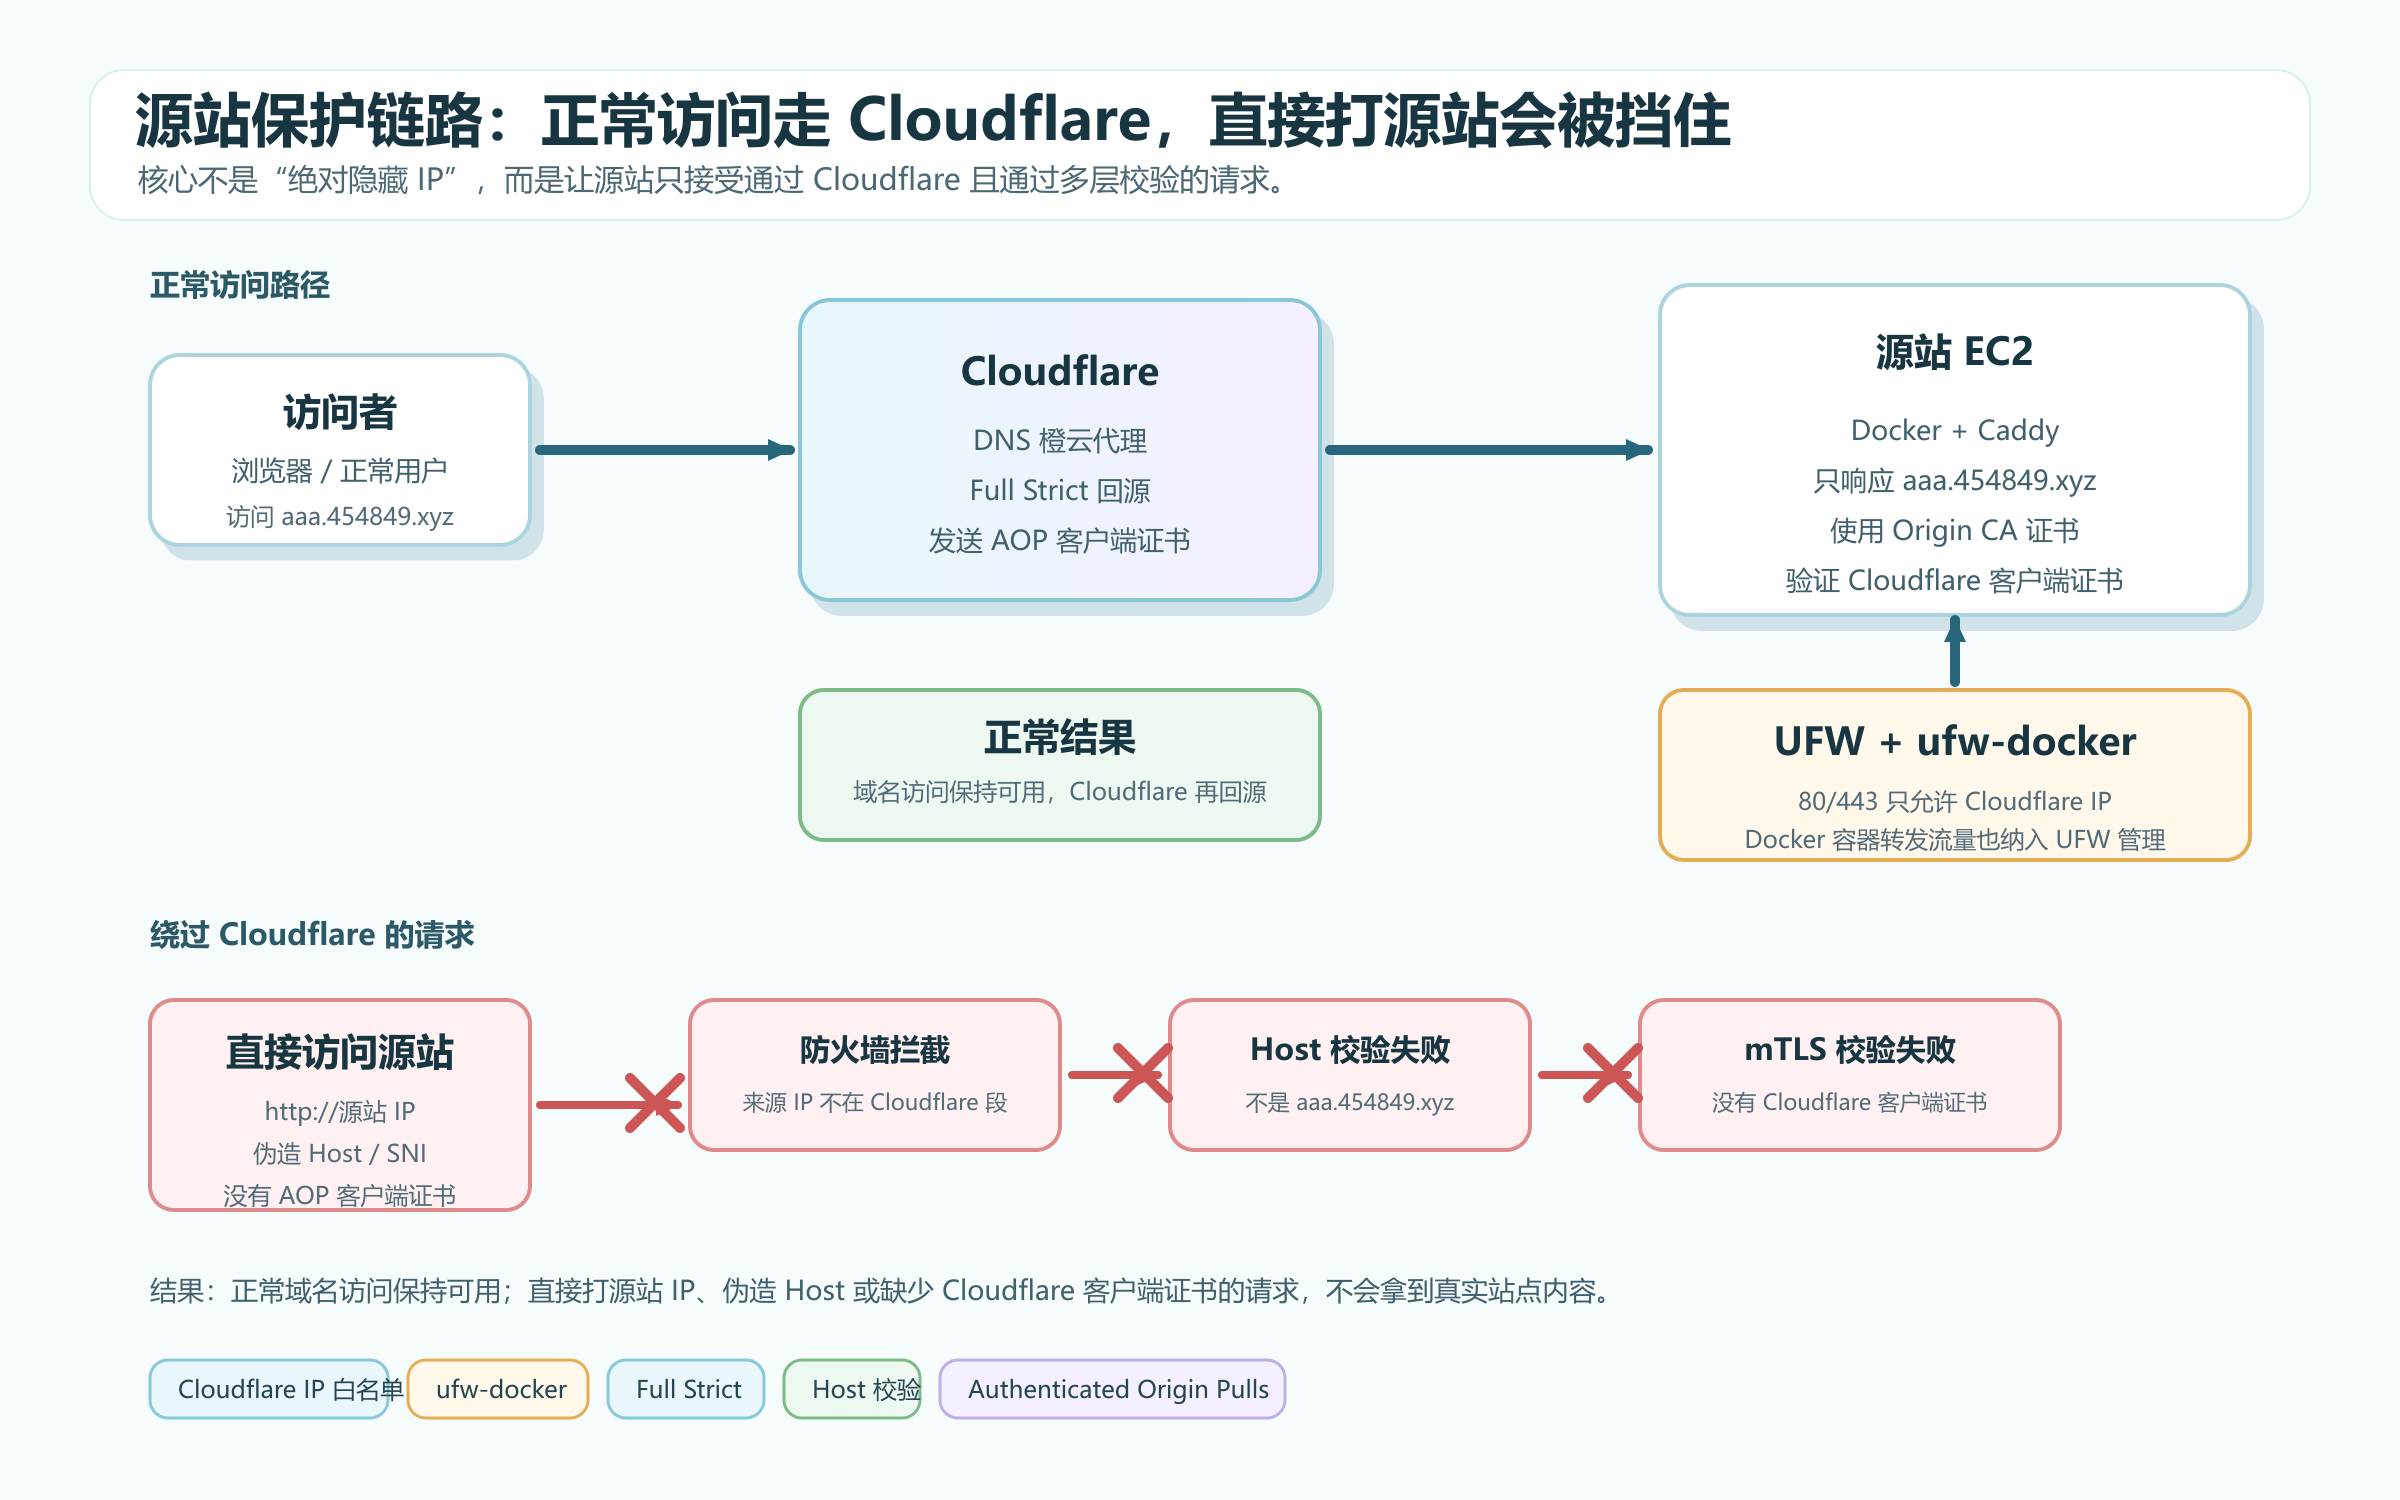
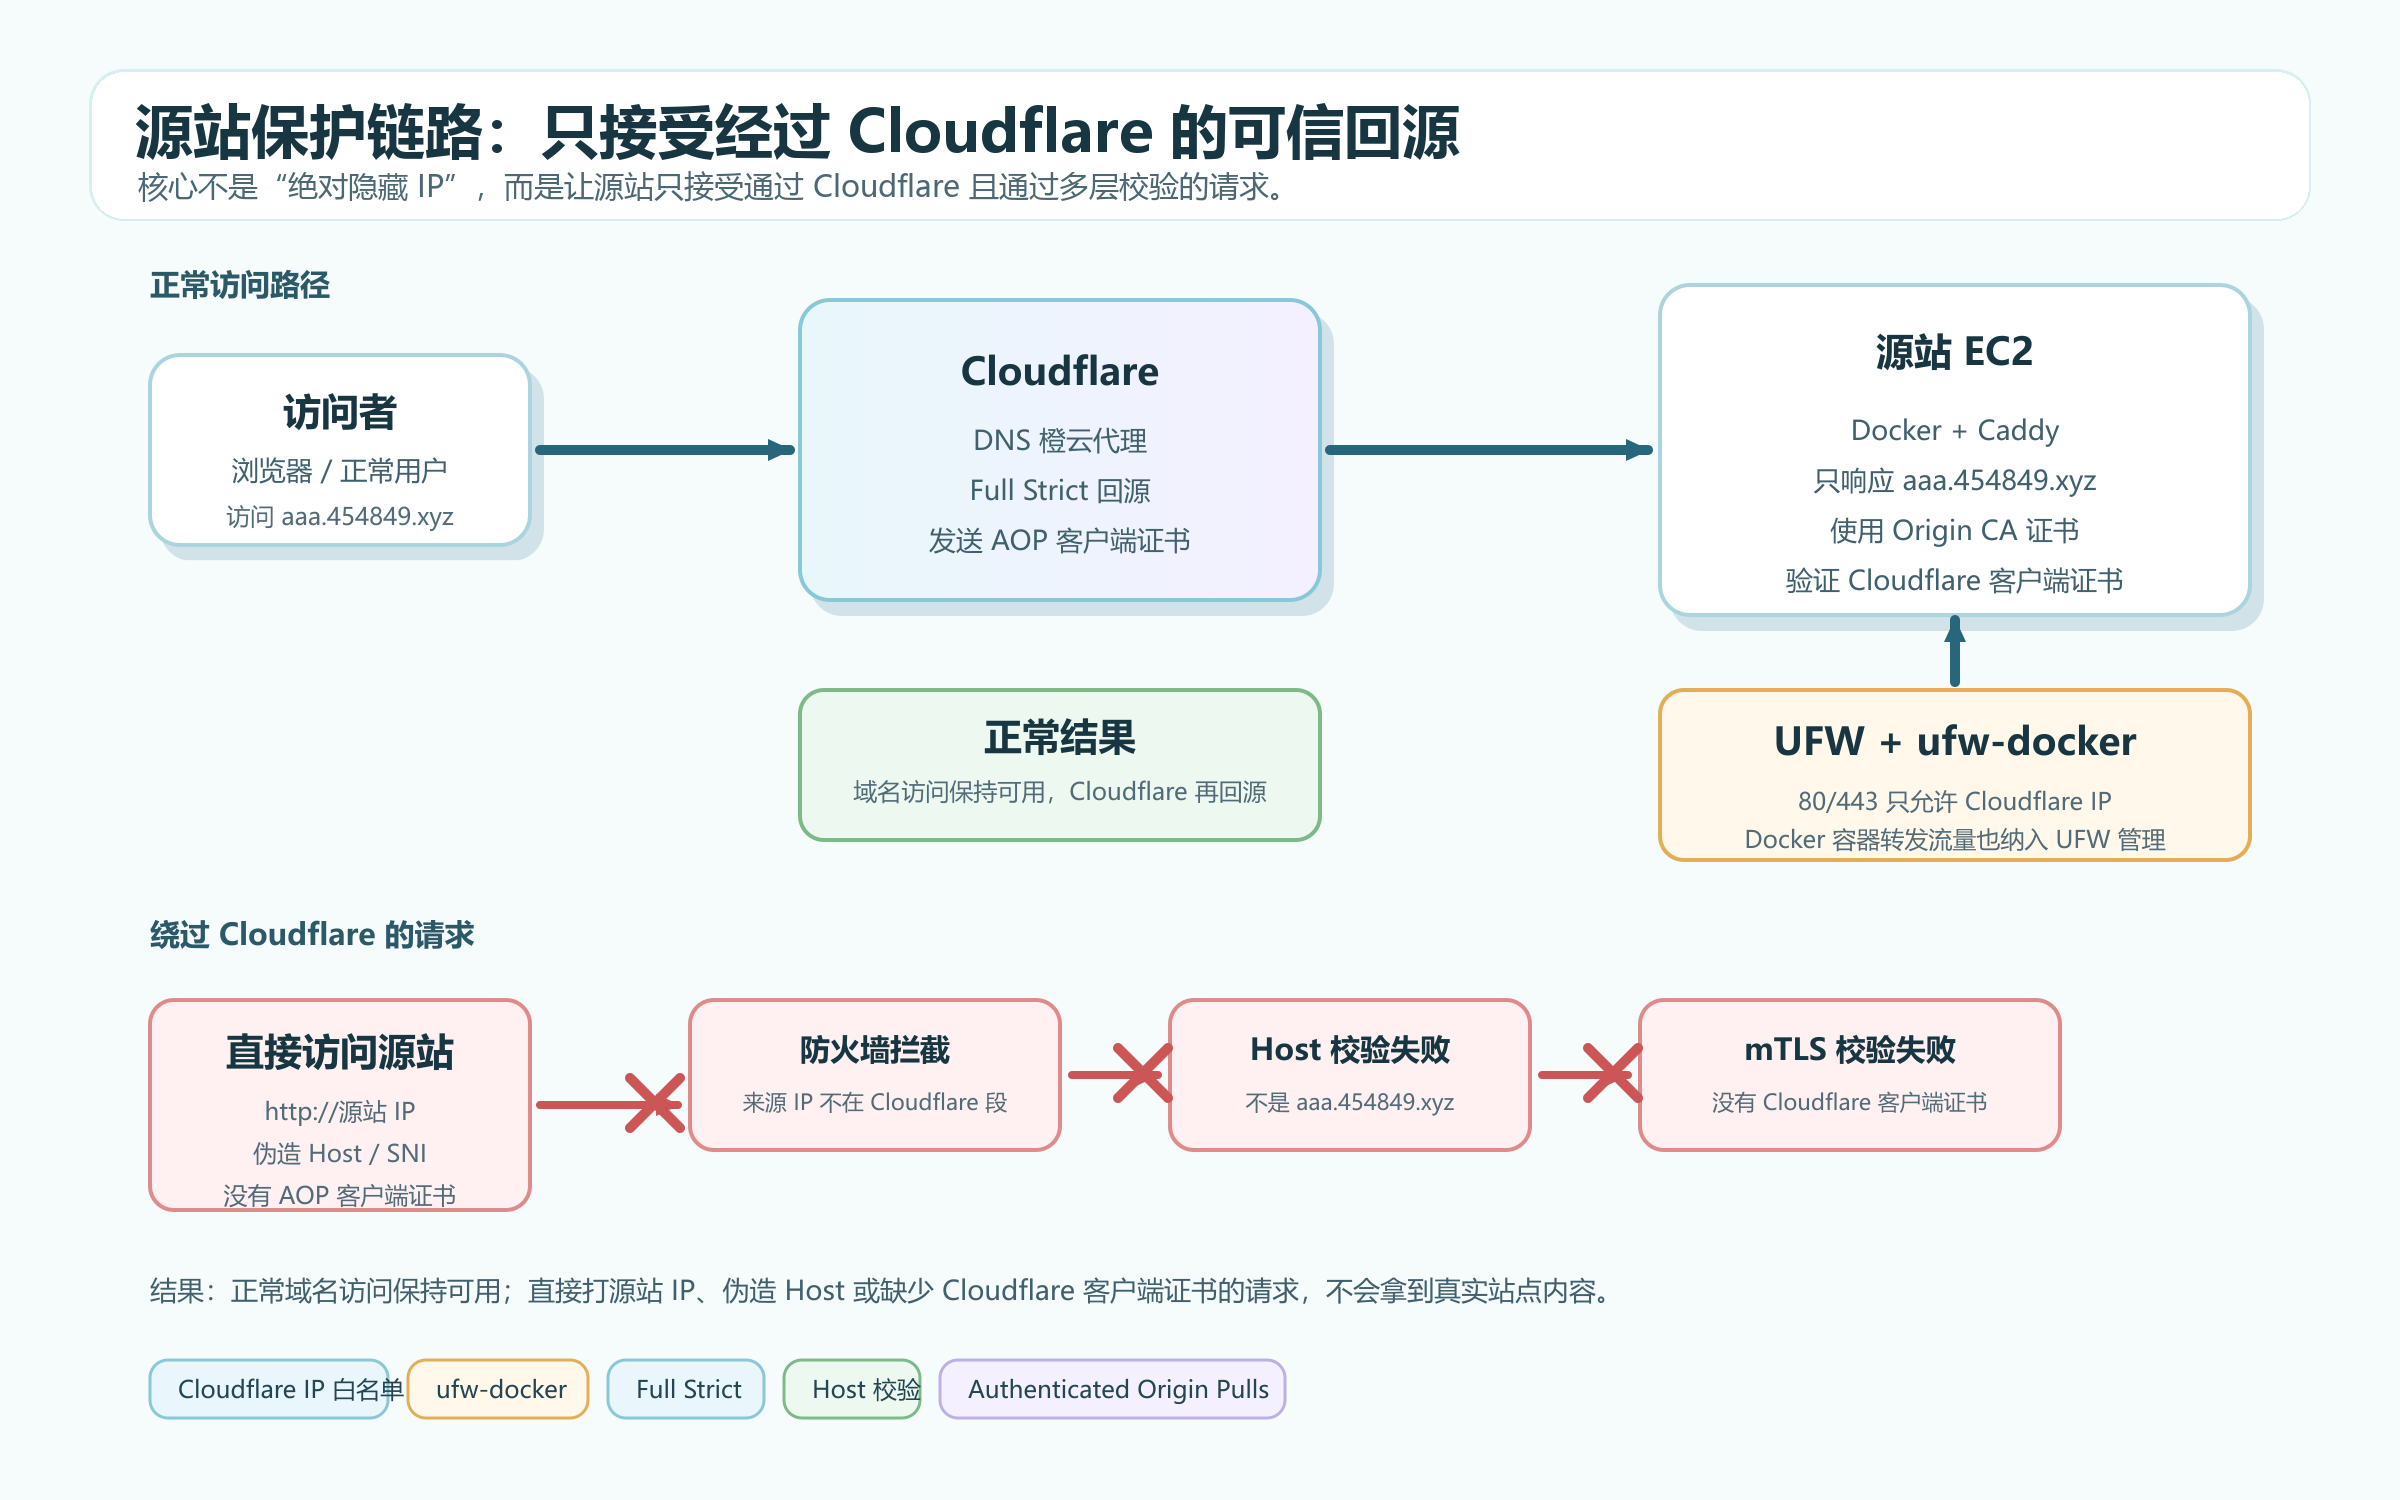
Refine origin protection post wording

Changed region(s): [[0.0312, 0.0613, 0.7188, 0.1533]]

diff --git a/src/content/posts/cloudflare-origin-protection/index.md b/src/content/posts/cloudflare-origin-protection/index.md
@@ -1,5 +1,5 @@
 ---
-title: 用 Cloudflare、Caddy 和 UFW 做源站保护：挡住直接访问 IP
+title: 用 Cloudflare、Caddy 和 UFW 保护源站：只接受可信回源
 published: 2026-05-16
 description: 记录一次在 AWS EC2 + Docker + Caddy 上做源站保护的思路：Cloudflare IP 白名单、ufw-docker、Full Strict、Host 校验和 Authenticated Origin Pulls。
 image: 'cover.png'
@@ -25,7 +25,7 @@ lang: ''
 
 1. Cloudflare DNS 开橙云，让正常访问先进入 Cloudflare。
 2. UFW 只允许 Cloudflare IP 访问源站的 `80/443`。
-3. Docker 发布端口后，用 `ufw-docker` 修复 Docker 绕过 UFW 的问题。
+3. Docker 发布端口后，用 `ufw-docker` 把容器转发流量纳入 UFW。
 4. Caddy 使用 Cloudflare Origin CA 证书，Cloudflare SSL/TLS 模式改成 Full Strict。
 5. Caddy 严格匹配 Host，并开启 Authenticated Origin Pulls，让源站只接受 Cloudflare 带客户端证书的回源请求。
 
@@ -106,28 +106,15 @@ IPv6 同理，读取 Cloudflare 的 IPv6 列表再加一遍规则。脚本可以
 
 到这里看起来已经像是“80/443 只允许 Cloudflare IP”了，但如果服务跑在 Docker 里，还没结束。
 
-## Docker 会绕过普通 UFW 规则
+## 把 Docker 转发流量纳入 UFW
 
 Docker 发布端口时会改 iptables / NAT 规则。结果是：你在 UFW 里看见 `80/443` 只允许 Cloudflare，但外部直接访问源站 IP 可能仍然能打到容器。
 
 这也是这篇文章里最容易踩坑的地方。解决办法是把 Docker 转发流量也纳入 UFW 管理，我这里用的是 <a href="https://github.com/chaifeng/ufw-docker" target="_blank" rel="noopener noreferrer">ufw-docker</a>。
 
-安装后，UFW 更新脚本里除了普通 `allow`，还要给 Docker 转发流量加 `route allow`：
+这里不建议照抄一段固定脚本，因为 Docker 网络、容器名和要暴露的端口在每台机器上都不一样。更稳妥的做法是按 `ufw-docker` 官方 README 先安装规则，再用它提供的 `check`、`status`、`allow`、`reload` 等命令确认 Docker 转发流量已经进入 UFW 管理。
 
-```bash
-while read -r cidr; do
-  ufw allow proto tcp from "$cidr" to any port 80 comment 'CF-HOST'
-  ufw allow proto tcp from "$cidr" to any port 443 comment 'CF-HOST'
-  ufw route allow proto tcp from "$cidr" to any port 80 comment 'CF-DOCKER'
-  ufw route allow proto tcp from "$cidr" to any port 443 comment 'CF-DOCKER'
-done < /etc/ufw/cloudflare/ips-v4
-
-ufw --force enable
-ufw-docker install --docker-subnets
-ufw reload
-```
-
-如果你的脚本每次都会 `ufw reset`，记得在重建规则后重新执行 `ufw-docker install --docker-subnets`。否则第二天自动更新完，Docker 相关规则可能又丢了。
+我自己的 Cloudflare IP 更新脚本只负责维护“哪些来源 IP 可以访问源站 `80/443`”。Docker 这一层按 `ufw-docker` 官方配置处理：新增或删除 Docker 网络后，重新检查并更新 `ufw-docker` 规则；如果你用 `ufw reset` 重建防火墙，也要记得重新接入 Docker 相关规则。
 
 修复后，再直接访问源站 IP，浏览器应该打不开，或者超时：
 
@@ -251,7 +238,7 @@ curl -kI --resolve aaa.454849.xyz:443:127.0.0.1 https://aaa.454849.xyz
 开启后，正常域名访问依然走 Cloudflare，Cloudflare 带客户端证书回源，所以可以访问；直接打源站 IP 或本地伪造解析，因为没有 Cloudflare 客户端证书，会在 TLS 阶段失败。
 
 > [!NOTE]
-> Global AOP 用的是 Cloudflare 共享客户端证书，它证明“请求来自 Cloudflare 网络”，不是证明“请求来自我的这个 Cloudflare zone”。对普通个人站来说，Global AOP + 严格 Host 校验 + Cloudflare IP 白名单已经很强。如果是企业级场景，或者需要把源站访问权限精确绑定到自己的配置，可以进一步研究 Zone-level / Per-hostname 的自定义 AOP。
+> Global AOP 用的是 Cloudflare 共享客户端证书，它证明“请求来自 Cloudflare 网络”，不是证明“请求来自我的这个 Cloudflare zone”。不过普通套餐下，别人通常不能随意指定回源端口、改写 Host/SNI 再打到你的源站；这类更强的回源改写能力一般需要 Enterprise 或更高权限配置。对个人站来说，Global AOP + 严格 Host 校验 + Cloudflare IP 白名单已经够用了。
 
 ## 验证清单
 
@@ -262,7 +249,7 @@ curl -kI --resolve aaa.454849.xyz:443:127.0.0.1 https://aaa.454849.xyz
 3. `http://源站IP` 无法直接打开。
 4. 伪造 Host 请求源站，不会返回真实站点内容。
 5. 没有 Cloudflare 客户端证书时，直接打源站 HTTPS 会失败。
-6. `ufw status numbered` 里能看到 Cloudflare IP 的 `ALLOW IN` 和 Docker 转发相关的 `ALLOW FWD`。
+6. UFW 里能看到 Cloudflare IP 白名单，`ufw-docker` 也能确认 Docker 转发流量已经接入 UFW。
 7. 自动更新 Cloudflare IP 的 systemd timer 正常运行。
 
 验证时不要只看“能不能访问域名”。源站保护最重要的是反向测试：绕过 Cloudflare 的路径是不是被挡住了。
@@ -271,13 +258,13 @@ curl -kI --resolve aaa.454849.xyz:443:127.0.0.1 https://aaa.454849.xyz
 
 这套方案不是万能的。
 
-首先，Cloudflare IP 白名单依赖 IP 段同步，脚本要能稳定更新。脚本里如果用了 `ufw reset`，就要把 SSH、Cloudflare、Docker 转发规则都重新写回去，不然容易把自己服务断掉。
+首先，Cloudflare IP 白名单依赖 IP 段同步，脚本要能稳定更新。脚本里如果用了 `ufw reset`，就要把 SSH 和 Cloudflare 主机规则恢复回来；Docker 相关部分则按 `ufw-docker` 官方方式重新检查和接入，别让自动更新把规则冲掉。
 
-其次，Global AOP 仍然是共享信任。它适合个人站和普通项目，但如果你的安全模型要求“只有我这个 zone 可以访问源站”，就应该使用自定义 AOP。
+其次，Global AOP 仍然是共享信任。它适合个人站和普通项目，因为普通 Cloudflare 配置下，攻击者很难同时做到“让 Cloudflare 回源到你的 IP、伪造正确 Host/SNI、并绕过你的源站校验”。如果你的安全模型要求“只有我这个 zone 可以访问源站”，再考虑自定义 AOP。
 
 另外，教程里的 AWS 安全组开放是为了演示对比。正式服务器不要这样配置。安全组、系统防火墙、Caddy Host 校验、mTLS 都是不同层的保护，能叠加就叠加。
 
-最后，如果你的业务不一定要把 Docker 端口直接发布到公网，也可以考虑让容器只监听本机或内网，再由宿主机上的反向代理统一入口。那样规则会更简单，但和这次的演示环境不是同一条路线。
+最后，实际部署时通常让 Caddy 作为唯一公网入口，绑定宿主机的 `80/443` 就够了。其它业务容器不需要直接绑定宿主机公网端口，可以只监听本机或 Docker 内网，再由 Caddy 反向代理过去。即使已有服务绑定了宿主机端口，也要用 UFW / ufw-docker 管住入口，不要让它绕过 Cloudflare 暴露在公网。
 
 ## 参考资料
 
@@ -285,5 +272,5 @@ curl -kI --resolve aaa.454849.xyz:443:127.0.0.1 https://aaa.454849.xyz
 - <a href="https://developers.cloudflare.com/ssl/origin-configuration/ssl-modes/full-strict/" target="_blank" rel="noopener noreferrer">Cloudflare Full (strict) SSL/TLS mode</a>
 - <a href="https://developers.cloudflare.com/ssl/origin-configuration/authenticated-origin-pull/" target="_blank" rel="noopener noreferrer">Cloudflare Authenticated Origin Pulls</a>
 - <a href="https://docs.docker.com/engine/install/ubuntu/" target="_blank" rel="noopener noreferrer">Docker Engine on Ubuntu</a>
-- <a href="https://caddyserver.com/docs/caddyfile/directives/tls" target="_blank" rel="noopener noreferrer">Caddy `tls` directive</a>
+- <a href="https://caddyserver.com/docs/caddyfile/directives/tls" target="_blank" rel="noopener noreferrer">Caddy TLS directive</a>
 - <a href="https://github.com/chaifeng/ufw-docker" target="_blank" rel="noopener noreferrer">ufw-docker</a>
